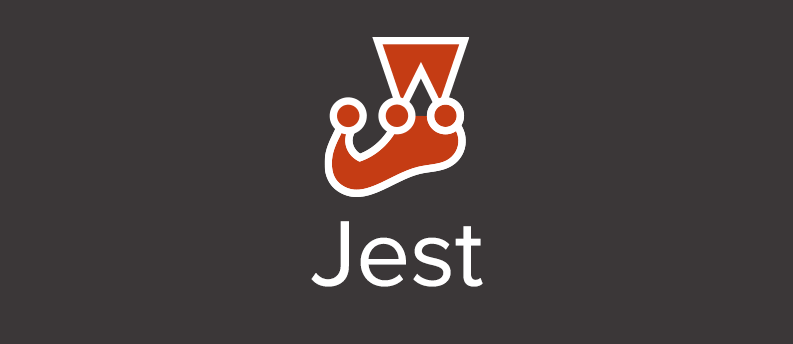
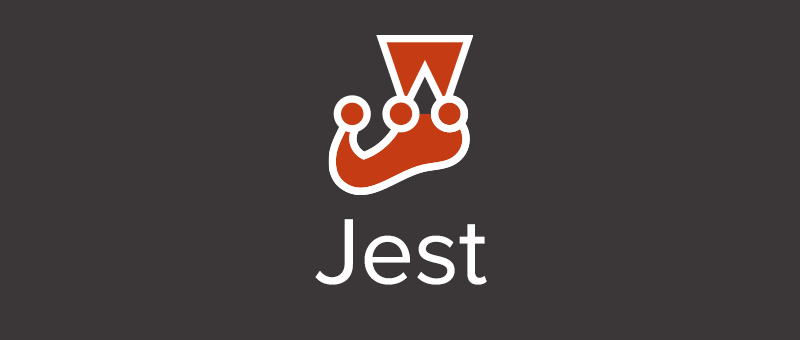
reexportando imagens para normalizar tamanhos (800x340)

diff --git a/src/assets/posts.css.scss b/src/assets/posts.css.scss
@@ -119,8 +119,13 @@ autoprefix: true
 		}
 
 		.cover-image {
+			background: lightgray;
+			margin-bottom: 0.5em;
+			overflow: hidden;
+
 			img {
-				width: 100%;
+				display: block;
+				margin: auto;
 			}
 
 			figcaption {
@@ -151,6 +156,10 @@ autoprefix: true
 
 			.author + time:before {
 				content: '·';
+			}
+
+			.cover-image img {
+				max-width: 100%;
 			}
 		}
 	}

diff --git a/docpad.js b/docpad.js
@@ -149,7 +149,7 @@ const docpadConfig = function() {
 						if (fileName && fileName.length > 0) {
 							return `images/cover/${fileName}`;
 						}
-						return 'images/ico/elo7.png';
+						return 'images/cover/elo7.png';
 					}
 				}
 			},
